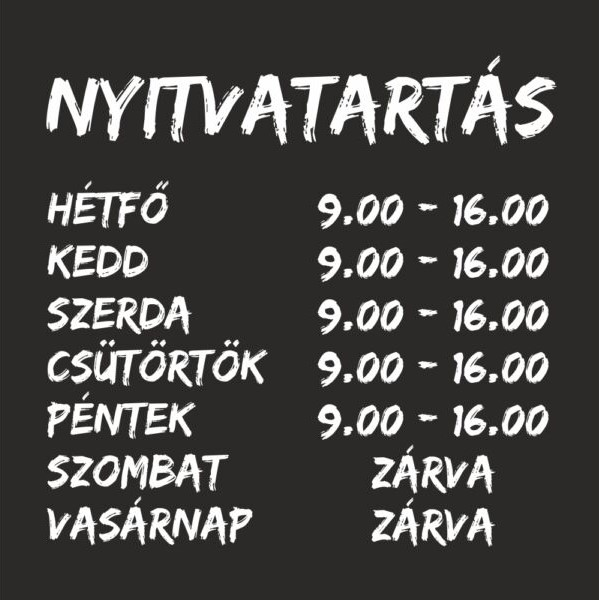
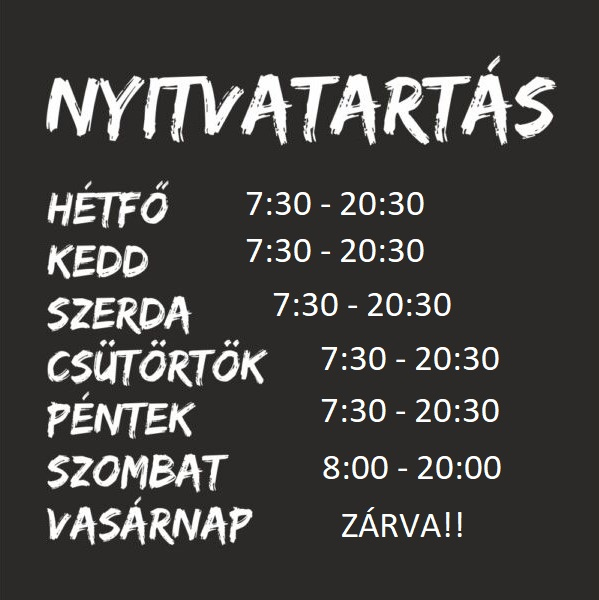
asd

Changed region(s): [[0.4207, 0.3, 0.9316, 0.93]]

diff --git a/index.html b/index.html
@@ -10,23 +10,23 @@
 </head>
 <body>
     <nav class="navbar navbar-expand-lg navbar-light bg-light">
-        <a class="navbar-brand ms-3 fs-2" href="#">BBB</a>
+        <a class="navbar-brand ms-3 fs-2 bbb" href="#">BBB</a>
         <button class="navbar-toggler" type="button" data-toggle="collapse" data-target="#navbarNav" aria-controls="navbarNav" aria-expanded="false" aria-label="Toggle navigation">
           <span class="navbar-toggler-icon"></span>
         </button>
         <div class="collapse navbar-collapse" id="navbarNav">
           <ul class="navbar-nav">
             <li class="nav-item active">
-              <a class="nav-link" href="#">Home<span class="sr-only"></a>
+              <a class="nav-link" href="#">Kezdőlap<span class="sr-only"></a>
             </li>
             <li class="nav-item">
-              <a class="nav-link" href="#">Features</a>
+              <a class="nav-link" href="./html/rolunk.html">Rólunk</a>
             </li>
             <li class="nav-item">
-              <a class="nav-link" href="#">Pricing</a>
+              <a class="nav-link" href="#"></a>
             </li>
             <li class="nav-item">
-              <a class="nav-link" href="#">Disabled</a>
+              <a class="nav-link" href="#"></a>
             </li>
           </ul>
         </div>
@@ -35,7 +35,9 @@
     <div class="container">
         <div class="row justify-content-center">
             <h1 class="w-auto mt-5">Béla Barkács Boltja</h1>
-            <div class=""></div>
+            <div class="nyitva">
+              <img src="./img/nyitvatartas.jpg" alt="nyitva">
+            </div>
         </div>
     </div>
 </body>

diff --git a/css/style.css b/css/style.css
@@ -15,3 +15,11 @@ h1 {
     font-family: 'Outfit', sans-serif;
     background-color: rgba(83, 83, 83, 0.822);
 }
+
+.bbb {
+    font-family: 'Outfit', sans-serif;
+}
+
+.nyitva {
+    
+}
